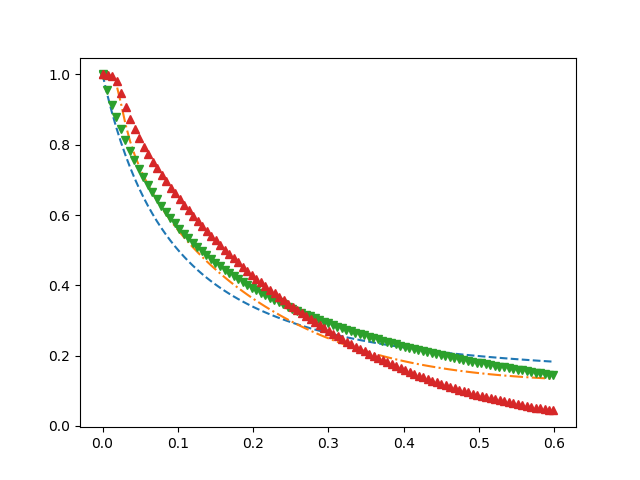
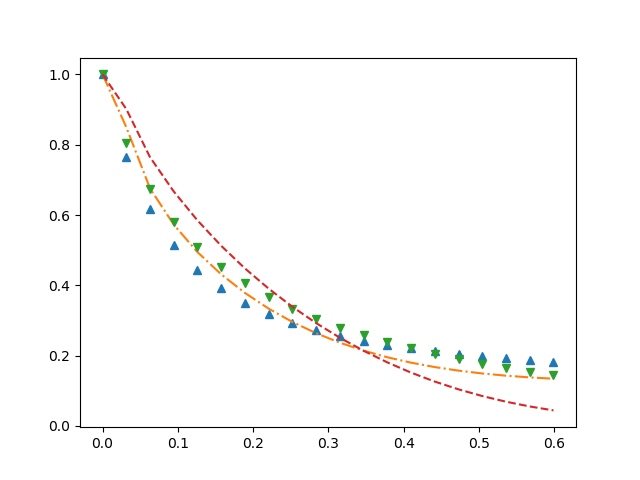
GA loop temperature

Changed region(s): [[0.1562, 0.125, 0.875, 0.875]]

diff --git a/evaluationFunction.py b/evaluationFunction.py
@@ -45,85 +45,86 @@ def getMolesFractions(machanismInp,expParameterInp):
     fraction_NO,fraction_NH3,residentTime=PyChemTB.postProcess(resultFile=resultFileChemkin)
     return fraction_NO,fraction_NH3,residentTime
 
+###########################################
+##        research on residence time     ##
+###########################################
 
-PyChemTB.gererateInputFile(         reactants=[#('CH4',0),
-                                                 #('CO',0.0),
-                                                 #('CO2',0.15),
-                                                 #('H2',0.2),
-                                                 ('N2',0.7895),
-                                                 ('NH3',0.0003),
-                                                 ('NO',0.0002),
-                                                 ('O2',0.06),
-                                                 ('CO2',0.15)],     # Reactant (mole fraction)
+class sncr4AllResidenceCalculator:
+    def __init__(self,temperatureX):        
+        PyChemTB.gererateInputFile(         reactants=[#('CH4',0),
+                                                        #('CO',0.0),
+                                                        #('CO2',0.15),
+                                                        #('H2',0.2),
+                                                        ('N2',0.7895),
+                                                        ('NH3',0.0003),
+                                                        ('NO',0.0002),
+                                                        ('O2',0.06),
+                                                        ('CO2',0.15)],     # Reactant (mole fraction)
 
-                                      temperature = 1200, # Temperature(K)
-                                      pressure = 1 ,   # Pressure (bar)
-                                      velocity=75.0,
-                                      viscosity=0.0,
-                                      reactorDiameter=3.2,
-                                      endPosition=45.0,
-                                      startPosition=0.0 ,
-                                      endTime = 0.05 ,   # End Time (sec)
-                                      tempFile="testForResiTime.inp")
+                                            temperature = temperatureX, # Temperature(K)
+                                            pressure = 1 ,   # Pressure (bar)
+                                            velocity=75.0,
+                                            viscosity=0.0,
+                                            reactorDiameter=3.2,
+                                            endPosition=45.0,
+                                            startPosition=0.0 ,
+                                            endTime = 0.05 ,   # End Time (sec)
+                                            tempFile="testForResiTime.inp")
 
+        fraction_NO_Detail_Reaction,fraction_NH3_Detail_Reaction,residentTimeDetail=getMolesFractions(
+                                                        os.path.join(currentDir,"chem_add_ITL.inp"),
+                                                            os.path.join(currentDir, "testForResiTime.inp"))
 
-fraction_NO_Detail_Reaction,fraction_NH3_Detail_Reaction,residentTimeDetail=getMolesFractions(
-                                                   os.path.join(currentDir,"chem_add_ITL.inp"),
-                                                    os.path.join(currentDir, "testForResiTime.inp"))
-
-f_NO_Detail=interp1d(residentTimeDetail.values,fraction_NO_Detail_Reaction.values,kind='linear',fill_value="extrapolate")	
-f_NH3_Detail=interp1d(residentTimeDetail.values,fraction_NH3_Detail_Reaction.values,kind='linear',fill_value="extrapolate")			
-comparationListTime = np.linspace(residentTimeDetail.values[0],residentTimeDetail.values[-1],num=20,endpoint=True )
-comparationList_NO_Detail = f_NO_Detail(comparationListTime)
-comparationList_NH3_Detail = f_NH3_Detail(comparationListTime)									
+        f_NO_Detail=interp1d(residentTimeDetail.values,fraction_NO_Detail_Reaction.values,kind='linear',fill_value="extrapolate")	
+        f_NH3_Detail=interp1d(residentTimeDetail.values,fraction_NH3_Detail_Reaction.values,kind='linear',fill_value="extrapolate")			
+        self.comparationListTime = np.linspace(residentTimeDetail.values[0],residentTimeDetail.values[-1],num=20,endpoint=True )
+        self.comparationList_NO_Detail = f_NO_Detail(self.comparationListTime)
+        self.comparationList_NH3_Detail = f_NH3_Detail(self.comparationListTime)									
 													
-def difference_Overall_Detail(Coefficient,draw=False):
+    def difference_Overall_Detail(self,Coefficient,draw=False):
 
-    PyChemTB.generateChemInput(#1.49e19,0,3.6e5,1.2e15,0,3.4e5,
-                               Coefficient[0],Coefficient[1],Coefficient[2],Coefficient[3],Coefficient[4],Coefficient[5],
-                               tempFile=os.path.join(currentDir,"ChemInput_OverallReaction.inp"))
+        PyChemTB.generateChemInput(Coefficient[0],Coefficient[1],Coefficient[2],
+                                    Coefficient[3],Coefficient[4],Coefficient[5],
+                                    tempFile=os.path.join(currentDir,"ChemInput_OverallReaction.inp"))
 
+        
+        fraction_NO_Overall_Reaction,fraction_NH3_Overall_Reaction,residentTimeOverall=getMolesFractions(
+                                                        #"G:\SNCR\SNCR\chem_add_ITL.inp",
+                                                        os.path.join(currentDir,"ChemInput_OverallReaction.inp"),
+                                                        os.path.join(currentDir, "testForResiTime.inp"))
+        # print(fraction_NO_Overall_Reaction.ilpoc[])
 
+        
+        
+        f_NO_Overall=interp1d(residentTimeOverall.values,fraction_NO_Overall_Reaction.values,kind='linear',fill_value="extrapolate")
+        f_NH3_Overall=interp1d(residentTimeOverall.values,fraction_NH3_Overall_Reaction.values,kind='linear',fill_value="extrapolate")
 
+        
+        self.comparationList_NO_Overall = f_NO_Overall(self.comparationListTime)
+        self.comparationList_NH3_Overall = f_NH3_Overall(self.comparationListTime)
 
-    
-    fraction_NO_Overall_Reaction,fraction_NH3_Overall_Reaction,residentTimeOverall=getMolesFractions(
-                                                     #"G:\SNCR\SNCR\chem_add_ITL.inp",
-                                                    os.path.join(currentDir,"ChemInput_OverallReaction.inp"),
-                                                    os.path.join(currentDir, "testForResiTime.inp"))
-    # print(fraction_NO_Overall_Reaction.ilpoc[])
+        self.diff2_NO = ((self.comparationList_NO_Detail-self.comparationList_NO_Overall)/fraction_NO_Overall_Reaction[0])**2
+        self.diff2_NH3 = ((self.comparationList_NH3_Detail-self.comparationList_NH3_Overall)/fraction_NH3_Overall_Reaction[0])**2
 
-    
-    
-    f_NO_Overall=interp1d(residentTimeOverall.values,fraction_NO_Overall_Reaction.values,kind='linear',fill_value="extrapolate")
-    f_NH3_Overall=interp1d(residentTimeOverall.values,fraction_NH3_Overall_Reaction.values,kind='linear',fill_value="extrapolate")
-
-    
-    comparationList_NO_Overall = f_NO_Overall(comparationListTime)
-    comparationList_NH3_Overall = f_NH3_Overall(comparationListTime)
-
-    diff2_NO = ((comparationList_NO_Detail-comparationList_NO_Overall)/fraction_NO_Overall_Reaction[0])**2
-    diff2_NH3 = ((comparationList_NH3_Detail-comparationList_NH3_Overall)/fraction_NH3_Overall_Reaction[0])**2
-
-    if(draw):
-        plt.figure(1)
-        pic01=plt.plot(residentTimeOverall,fraction_NO_Overall_Reaction/fraction_NO_Overall_Reaction[0],'--',
-                 residentTimeDetail,fraction_NO_Detail_Reaction/fraction_NO_Detail_Reaction[0],'-.',
-                 residentTimeOverall,fraction_NH3_Overall_Reaction/fraction_NH3_Overall_Reaction[0],'v',
-                 residentTimeDetail,fraction_NH3_Detail_Reaction/fraction_NH3_Overall_Reaction[0],'^',
-                 )
-        plt.savefig('1.png') 
-        plt.figure(2)
-        pic02=plt.plot(comparationListTime,diff2_NO,'--',
-                 comparationListTime,diff2_NH3,'-.',
-                 #residentTimeOverall,fraction_NH3_Overall_Reaction,'v',
-                 #residentTimeDetail,fraction_NH3_Detail_Reaction,'^',
-                 )
-        plt.xlabel('ResidentTime',fontsize='large')
-        plt.ylabel('Fraction out/ Fraction in',fontsize='large')
-        plt.savefig('2.png') 
-        plt.show()
-    return (2*diff2_NO.mean()+diff2_NH3.mean())/3
+        if(draw):
+            plt.figure(1)
+            pic01=plt.plot(self.comparationListTime,self.comparationList_NO_Overall/self.comparationList_NO_Overall[0],'^',
+                    self.comparationListTime,self.comparationList_NO_Detail/self.comparationList_NO_Detail[0],'-.',
+                    self.comparationListTime,self.comparationList_NH3_Overall/self.comparationList_NH3_Overall[0],'v',
+                    self.comparationListTime,self.comparationList_NH3_Detail/self.comparationList_NH3_Detail[0],'--',
+                    )
+            plt.savefig('1.png') 
+            plt.figure(2)
+            pic02=plt.plot(self.comparationListTime,self.diff2_NO,'--',
+                    self.comparationListTime,self.diff2_NH3,'-.',
+                    #residentTimeOverall,fraction_NH3_Overall_Reaction,'v',
+                    #residentTimeDetail,fraction_NH3_Detail_Reaction,'^',
+                    )
+            plt.xlabel('ResidentTime',fontsize='large')
+            plt.ylabel('Fraction out/ Fraction in',fontsize='large')
+            plt.savefig('2.png') 
+            plt.show()
+        return (2*self.diff2_NO.mean()+self.diff2_NH3.mean())/3
 
 ###################################################
 ##               For different temperature       ##
@@ -225,14 +226,18 @@ class temperatureListDiffCalculator:
             plt.savefig("NO.png")
         return (diff_NH3.mean()+2*diff_NO.mean())/3
 
-
+###########################################
+##         Test the function             ##
+###########################################
 
 
 if __name__=='__main__':
     #Coeficients=[1e15,0,3e4,1e15,0,3e4]
     Coeficients=[3498.5172111780353, 5.5169879733298846, 51812.46347905936,
      7.107369586702694e+19, 6.111647708933334, 170713.70515855757]
-    val_diff=difference_Overall_Detail(Coefficient=Coeficients,draw=True)
+
+    calculatorForResTime=sncr4AllResidenceCalculator(temperatureX=1200)
+    val_diff=calculatorForResTime.difference_Overall_Detail(Coefficient=Coeficients,draw=True)
     print(val_diff)
     # calculate the result for different operating condition
     '''

diff --git a/ChemkinGAInLoop.py b/ChemkinGAInLoop.py
@@ -1,0 +1,127 @@
+from __future__ import division
+
+try:
+    from deap import tools
+except:
+    import os
+    os.system("pip install deap")
+    from deap import tools
+
+from deap import base, creator
+import numpy as np
+creator.create("FitnessMin", base.Fitness, weights=(-1.0,))
+creator.create("Individual", list, fitness=creator.FitnessMin)
+# un individual, ca veut dire, un variable de vecteur
+import random
+
+import evaluationFunction as evltFun
+
+
+POP_SIZE = 50
+CXPB, MUTPB,INDPB,PRCENTSEL, NGEN = 0.5, 0.5, 0.3,0.5,300
+
+def atribute_initiale(PMin,Pmax):
+    a=random.uniform(0,10)
+    b=random.uniform(PMin,Pmax)
+    return a*10**b
+
+LimitMinAi,LimitMaxAi=0,50
+LimitMinBetai,LimitMaxBetai=0,0
+LimitMinEi,LimitMaxEi=0,10
+toolbox = base.Toolbox()
+toolbox.register("attribute_Ai",atribute_initiale,LimitMinAi,LimitMaxAi)
+toolbox.register("attribute_Betai",atribute_initiale,LimitMinBetai,LimitMaxBetai)
+toolbox.register("attribute_Ei",atribute_initiale,LimitMinEi,LimitMaxEi)
+toolbox.register("individual", tools.initCycle, creator.Individual,
+                 (toolbox.attribute_Ai,toolbox.attribute_Betai,toolbox.attribute_Ei), n=2)
+toolbox.register("population", tools.initRepeat, list, toolbox.individual)
+
+#listTemperature=np.linspace(500,1800,13)
+#calculatorTemp=evltFun.temperatureListDiffCalculator(listTemperature)
+
+def evaluate(individual,calculator):
+    # individual[0]:learnning rate;individual[1] numbers of perceptron
+
+    if LimitMinAi<individual[0]<=10*10**LimitMaxAi and LimitMinBetai<individual[1]<=10*10**LimitMaxBetai and \
+            LimitMinEi<individual[2]<=10*10**LimitMaxEi and LimitMinAi<individual[3]<=10*10**LimitMaxAi and \
+            LimitMinBetai<individual[4]<=10*10**LimitMaxBetai and LimitMinEi<individual[5]<=10*10**LimitMaxEi:
+        #notes=((individual[0]-5*10**5)/(5*10**5))**2+((individual[1]-5)/5)**2+((individual[2]-5*10**5)/(5*10**5))**2+ \
+         #    ((5*10**5-individual[3])/(5*10**5))**2+((individual[4]-4)/4)**2+((individual[5]-5*10**5)/(5*10**5))**2
+        notes=calculator.difference_Overall_Detail(individual)
+        
+        #notes=calculatorTemp.difference_Overall_Detail_temperature(individual,draw=False)
+
+    else:
+        notes=float('Inf')
+
+    return notes,
+def mutGaussianModified(individual, mu, sigma, indpb):
+    #print("This is the original:{0}".format(individual))
+    for i in range(len(individual)):
+        if random.uniform(0,1)<indpb:
+            individual[i]*=(1+random.gauss(mu,sigma))
+    #print("This is the number:{0}".format(individual))
+    return individual
+toolbox.register("mate", tools.cxTwoPoint)
+toolbox.register("mutate", mutGaussianModified, mu=0, sigma=1, indpb=INDPB)
+toolbox.register("select", tools.selTournament, tournsize=int(PRCENTSEL*POP_SIZE))
+toolbox.register("evaluate", evaluate)
+
+def main():
+    listTemperature=np.linspace(500,1800,13)
+    for counter, temperatureI in enumerate(listTemperature):
+        calculatorIter=evltFun.sncr4AllResidenceCalculator(temperatureX=temperatureI)
+
+        pop = toolbox.population(n=POP_SIZE)
+
+        # Evaluate the entire population
+        fitnesses = list(map(toolbox.evaluate, pop,calculatorIter))
+
+        for ind, fit in zip(pop, fitnesses):
+            ind.fitness.values = fit
+
+        for g in range(NGEN):
+            # Select the next generation individuals
+            offspring = toolbox.select(pop, len(pop))
+            # Clone the selected individuals
+            offspring = list(map(toolbox.clone, offspring))
+            #print(offspring)
+            # Apply crossover and mutation on the offspring
+            for child1, child2 in zip(offspring[::2], offspring[1::2]):
+                #print(child1,child2)
+                if random.random() < CXPB:
+                    toolbox.mate(child1, child2)
+                    del child1.fitness.values
+                    del child2.fitness.values
+
+            for mutant in offspring:
+                if random.random() < MUTPB:
+                    toolbox.mutate(mutant)
+                    del mutant.fitness.values
+
+            # Evaluate the individuals with an invalid fitness
+            invalid_ind = [ind for ind in offspring if not ind.fitness.valid]
+            fitnesses = list(map(toolbox.evaluate, invalid_ind,calculatorIter))
+
+            for ind, fit in zip(invalid_ind, fitnesses):
+                ind.fitness.values = fit
+
+            # The population is entirely replaced by the offspring
+            pop[:] = offspring
+            print(pop)
+            fitnessesPOP=[]
+            for inds in pop:
+                fitnessesPOP.append(inds.fitness.values)
+            print(fitnessesPOP)
+
+            input_stream=("""temperature:{3} step{0} pop: {1} \n step{0} fitnessesPOP {2} \n """.format(g,pop,fitnessesPOP,counter) )
+            with open("logFile.txt",'a+') as stream:
+                stream.write(input_stream)
+        
+
+
+        
+
+if __name__=="__main__":
+    xx=main()
+    print(xx)
